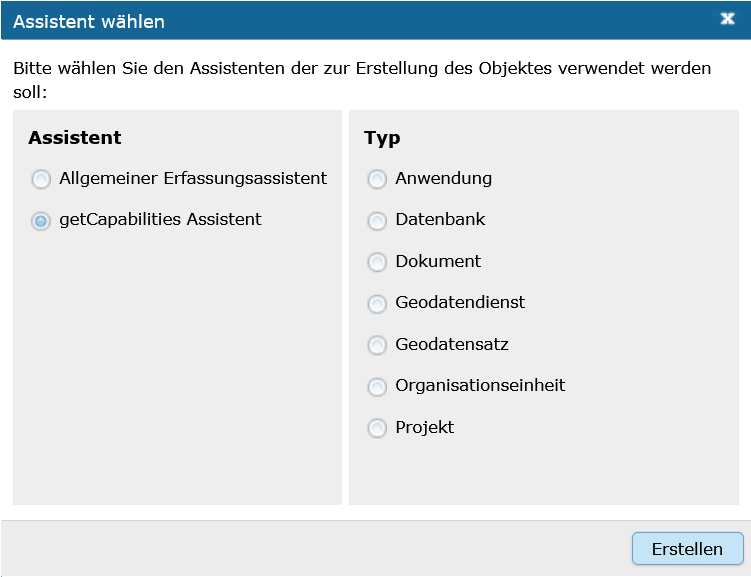
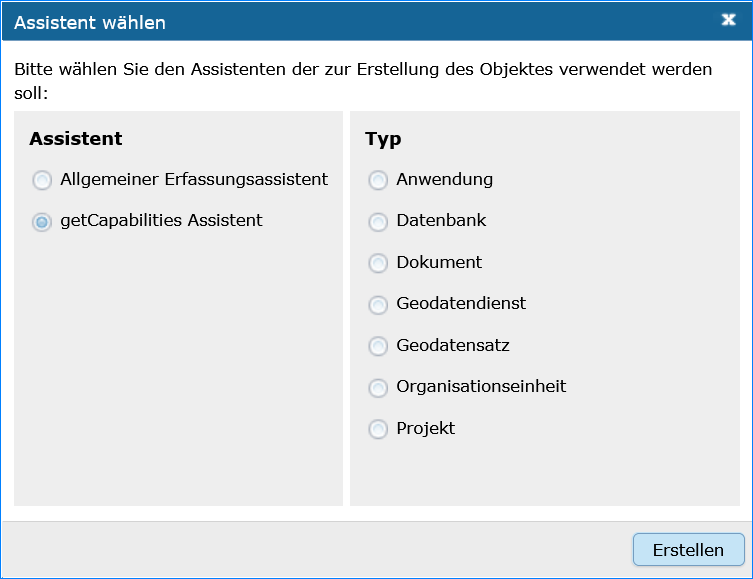
Aktualisierung

diff --git a/docs/metaver_ige/ige_erfassung/ige_objektklassen/objektklasse-geodatendienst.rst b/docs/metaver_ige/ige_erfassung/ige_objektklassen/objektklasse-geodatendienst.rst
@@ -57,6 +57,8 @@ Der getCapabilities-Assistent
 ^^^^^^^^^^^^^^^^^^^^^^^^^^^^^^
 
 .. image:: ../../../img_ige/metaver_ige/ige_erfassung/ige_objekte/ige_assistenten/ige-objekt-anlegen_assistent_1.png
+
+   :width: 500
 	
 Abb.: Der Erfassungsassistent - Auswahl des getCapabilitie Assistenten
 
